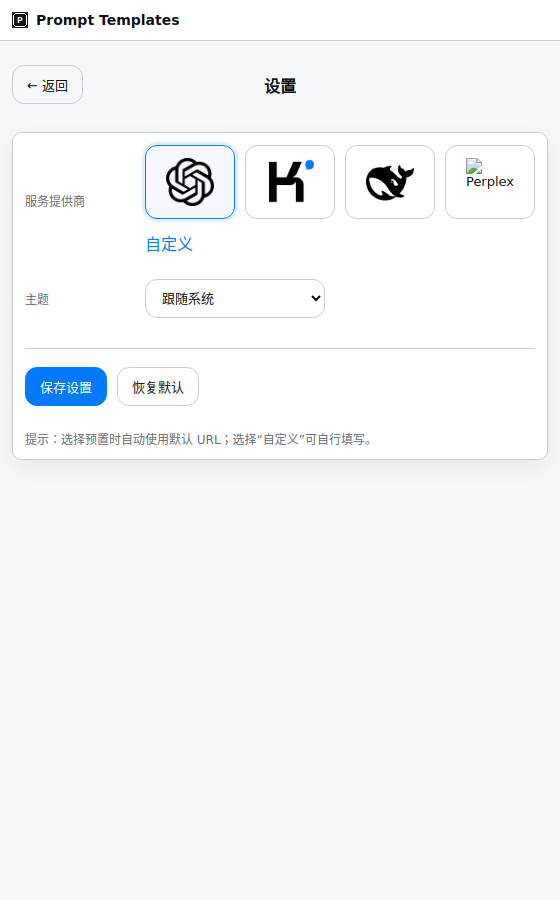
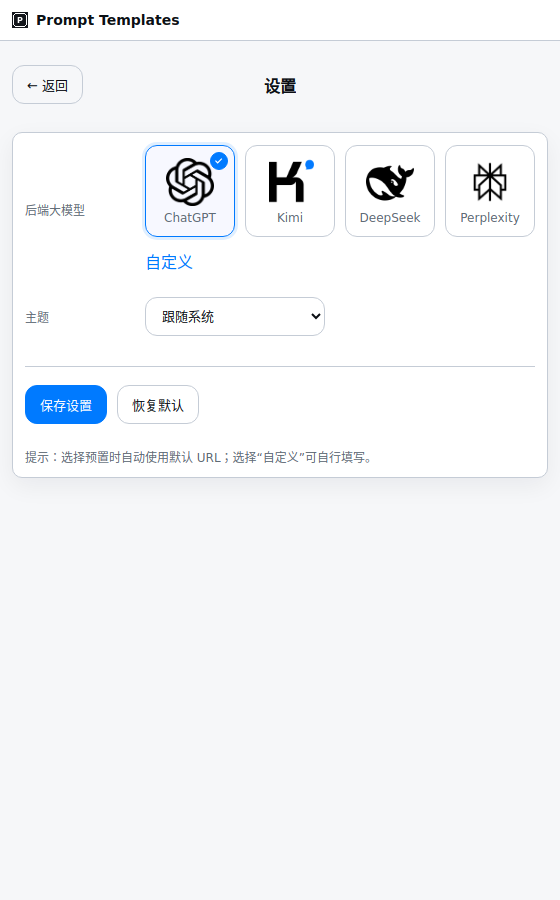
Enhance provider card UI with names, active state, and DeepSeek styling

diff --git a/edge-prompt-templates/popup.html b/edge-prompt-templates/popup.html
@@ -101,7 +101,7 @@ input[type="checkbox"]:focus{outline:none;box-shadow:0 0 0 3px var(--accent-soft
 /* Provider cards */
 .provider-wrap{flex:1}
 .provider-cards{display:grid;grid-template-columns:repeat(4,minmax(0,1fr));gap:10px}
-.provider-card{display:flex;align-items:center;justify-content:center;padding:12px;border:1px solid var(--line);border-radius:12px;background:var(--card);cursor:pointer;width:100%;min-height:72px}
+.provider-card{display:flex;flex-direction:column;align-items:center;justify-content:center;gap:6px;padding:12px;border:1px solid var(--line);border-radius:12px;background:var(--card);cursor:pointer;width:100%;min-height:92px;position:relative}
 .provider-card.active{border-color:var(--accent);box-shadow:0 0 0 3px var(--accent-soft);background:color-mix(in lab,var(--accent-soft) 40%, var(--card))}
 .provider-card img{width:48px;height:48px;object-fit:contain;display:block}
 .provider-card .fallback{display:none;font-size:12px;color:var(--muted)}
@@ -110,6 +110,12 @@ input[type="checkbox"]:focus{outline:none;box-shadow:0 0 0 3px var(--accent-soft
 .provider-card img.theme-dark{display:none}
 [data-theme="dark"] .provider-card img.theme-light{display:none}
 [data-theme="dark"] .provider-card img.theme-dark{display:block}
+/* DeepSeek: if dark variant is not ideal, invert light on dark */
+[data-theme="dark"] .provider-card[data-pv="deepseek"] img.theme-dark{filter:invert(1) brightness(1.2)}
+.provider-card .name{font-size:12px;color:var(--muted);line-height:1}
+.provider-card .tick{position:absolute;top:6px;right:6px;width:18px;height:18px;border-radius:50%;border:1px solid var(--accent);background:var(--accent);display:none;align-items:center;justify-content:center}
+.provider-card .tick svg{width:12px;height:12px;display:block}
+.provider-card.active .tick{display:flex}
 .provider-actions{margin-top:12px;display:flex;justify-content:flex-start}
   </style>
 </head>
@@ -166,27 +172,35 @@ input[type="checkbox"]:focus{outline:none;box-shadow:0 0 0 3px var(--accent-soft
     <div class="view-nav"><button id="back3" class="back">← 返回</button><div class="title">设置</div></div>
     <div class="card">
       <div class="settings">
-        <div class="row"><label class="small">服务提供商</label>
+        <div class="row"><label class="small">后端大模型</label>
           <div class="provider-wrap">
             <div class="provider-cards" id="providerCards">
               <button type="button" class="provider-card" data-pv="chatgpt" title="ChatGPT">
+                <div class="tick" aria-hidden="true"><svg viewBox="0 0 16 16" xmlns="http://www.w3.org/2000/svg"><path fill="#fff" d="M6.2 11.5L2.7 8l1.1-1.1l2.4 2.4l5-5l1.1 1.1z"/></svg></div>
                 <img class="theme-light" alt="ChatGPT" src="assets/providers/chatgpt-light.png">
                 <img class="theme-dark" alt="ChatGPT" src="assets/providers/chatgpt-dark.png">
+                <div class="name">ChatGPT</div>
                 <span class="fallback">ChatGPT</span>
               </button>
               <button type="button" class="provider-card" data-pv="kimi" title="Kimi">
+                <div class="tick" aria-hidden="true"><svg viewBox="0 0 16 16" xmlns="http://www.w3.org/2000/svg"><path fill="#fff" d="M6.2 11.5L2.7 8l1.1-1.1l2.4 2.4l5-5l1.1 1.1z"/></svg></div>
                 <img class="theme-light" alt="Kimi" src="assets/providers/kimi-light.png">
                 <img class="theme-dark" alt="Kimi" src="assets/providers/kimi-dark.png">
+                <div class="name">Kimi</div>
                 <span class="fallback">Kimi</span>
               </button>
               <button type="button" class="provider-card" data-pv="deepseek" title="DeepSeek">
+                <div class="tick" aria-hidden="true"><svg viewBox="0 0 16 16" xmlns="http://www.w3.org/2000/svg"><path fill="#fff" d="M6.2 11.5L2.7 8l1.1-1.1l2.4 2.4l5-5l1.1 1.1z"/></svg></div>
                 <img class="theme-light" alt="DeepSeek" src="assets/providers/deepseek-light.png">
                 <img class="theme-dark" alt="DeepSeek" src="assets/providers/deepseek-dark.png">
+                <div class="name">DeepSeek</div>
                 <span class="fallback">DeepSeek</span>
               </button>
               <button type="button" class="provider-card" data-pv="perplexity" title="Perplexity">
+                <div class="tick" aria-hidden="true"><svg viewBox="0 0 16 16" xmlns="http://www.w3.org/2000/svg"><path fill="#fff" d="M6.2 11.5L2.7 8l1.1-1.1l2.4 2.4l5-5l1.1 1.1z"/></svg></div>
                 <img class="theme-light" alt="Perplexity" src="assets/providers/perplexity-light.png">
                 <img class="theme-dark" alt="Perplexity" src="assets/providers/perplexity-dark.png">
+                <div class="name">Perplexity</div>
                 <span class="fallback">Perplexity</span>
               </button>
             </div>

diff --git a/edge-prompt-templates/panel.html b/edge-prompt-templates/panel.html
@@ -102,15 +102,18 @@ input[type="checkbox"]:focus{outline:none;box-shadow:0 0 0 3px var(--accent-soft
 /* Provider cards */
 .provider-wrap{flex:1}
 .provider-cards{display:grid;grid-template-columns:repeat(4,minmax(0,1fr));gap:10px}
-.provider-card{display:flex;align-items:center;justify-content:center;padding:12px;border:1px solid var(--line);border-radius:12px;background:var(--card);cursor:pointer;width:100%;min-height:72px}
+.provider-card{display:flex;flex-direction:column;align-items:center;justify-content:center;gap:6px;padding:12px;border:1px solid var(--line);border-radius:12px;background:var(--card);cursor:pointer;width:100%;min-height:92px;position:relative}
 .provider-card.active{border-color:var(--accent);box-shadow:0 0 0 3px var(--accent-soft);background:color-mix(in lab,var(--accent-soft) 40%, var(--card))}
 .provider-card img{width:48px;height:48px;object-fit:contain;display:block}
 .provider-card img.theme-dark{display:none}
 [data-theme="dark"] .provider-card img.theme-light{display:none}
 [data-theme="dark"] .provider-card img.theme-dark{display:block}
-.provider-card .fallback{display:none;font-size:12px;color:var(--muted)}
-.provider-card.img-error .fallback{display:inline}
-.provider-card.img-error img{display:none}
+/* DeepSeek: if dark variant is not ideal, invert light on dark */
+[data-theme="dark"] .provider-card[data-pv="deepseek"] img.theme-dark{filter:invert(1) brightness(1.2)}
+.provider-card .name{font-size:12px;color:var(--muted);line-height:1}
+.provider-card .tick{position:absolute;top:6px;right:6px;width:18px;height:18px;border-radius:50%;border:1px solid var(--accent);background:var(--accent);display:none;align-items:center;justify-content:center}
+.provider-card .tick svg{width:12px;height:12px;display:block}
+.provider-card.active .tick{display:flex}
 .provider-actions{margin-top:12px;display:flex;justify-content:flex-start}
   </style>
 </head>
@@ -167,27 +170,35 @@ input[type="checkbox"]:focus{outline:none;box-shadow:0 0 0 3px var(--accent-soft
     <div class="view-nav"><button id="back3" class="back">← 返回</button><div class="title">设置</div></div>
     <div class="card">
       <div class="settings">
-        <div class="row"><label class="small">服务提供商</label>
+        <div class="row"><label class="small">后端大模型</label>
           <div class="provider-wrap">
             <div class="provider-cards" id="providerCards">
               <button type="button" class="provider-card" data-pv="chatgpt" title="ChatGPT">
+                <div class="tick" aria-hidden="true"><svg viewBox="0 0 16 16" xmlns="http://www.w3.org/2000/svg"><path fill="#fff" d="M6.2 11.5L2.7 8l1.1-1.1l2.4 2.4l5-5l1.1 1.1z"/></svg></div>
                 <img class="theme-light" alt="ChatGPT" src="assets/providers/chatgpt-light.png">
                 <img class="theme-dark" alt="ChatGPT" src="assets/providers/chatgpt-dark.png">
+                <div class="name">ChatGPT</div>
                 <span class="fallback">ChatGPT</span>
               </button>
               <button type="button" class="provider-card" data-pv="kimi" title="Kimi">
+                <div class="tick" aria-hidden="true"><svg viewBox="0 0 16 16" xmlns="http://www.w3.org/2000/svg"><path fill="#fff" d="M6.2 11.5L2.7 8l1.1-1.1l2.4 2.4l5-5l1.1 1.1z"/></svg></div>
                 <img class="theme-light" alt="Kimi" src="assets/providers/kimi-light.png">
                 <img class="theme-dark" alt="Kimi" src="assets/providers/kimi-dark.png">
+                <div class="name">Kimi</div>
                 <span class="fallback">Kimi</span>
               </button>
               <button type="button" class="provider-card" data-pv="deepseek" title="DeepSeek">
+                <div class="tick" aria-hidden="true"><svg viewBox="0 0 16 16" xmlns="http://www.w3.org/2000/svg"><path fill="#fff" d="M6.2 11.5L2.7 8l1.1-1.1l2.4 2.4l5-5l1.1 1.1z"/></svg></div>
                 <img class="theme-light" alt="DeepSeek" src="assets/providers/deepseek-light.png">
                 <img class="theme-dark" alt="DeepSeek" src="assets/providers/deepseek-dark.png">
+                <div class="name">DeepSeek</div>
                 <span class="fallback">DeepSeek</span>
               </button>
               <button type="button" class="provider-card" data-pv="perplexity" title="Perplexity">
+                <div class="tick" aria-hidden="true"><svg viewBox="0 0 16 16" xmlns="http://www.w3.org/2000/svg"><path fill="#fff" d="M6.2 11.5L2.7 8l1.1-1.1l2.4 2.4l5-5l1.1 1.1z"/></svg></div>
                 <img class="theme-light" alt="Perplexity" src="assets/providers/perplexity-light.png">
                 <img class="theme-dark" alt="Perplexity" src="assets/providers/perplexity-dark.png">
+                <div class="name">Perplexity</div>
                 <span class="fallback">Perplexity</span>
               </button>
             </div>
